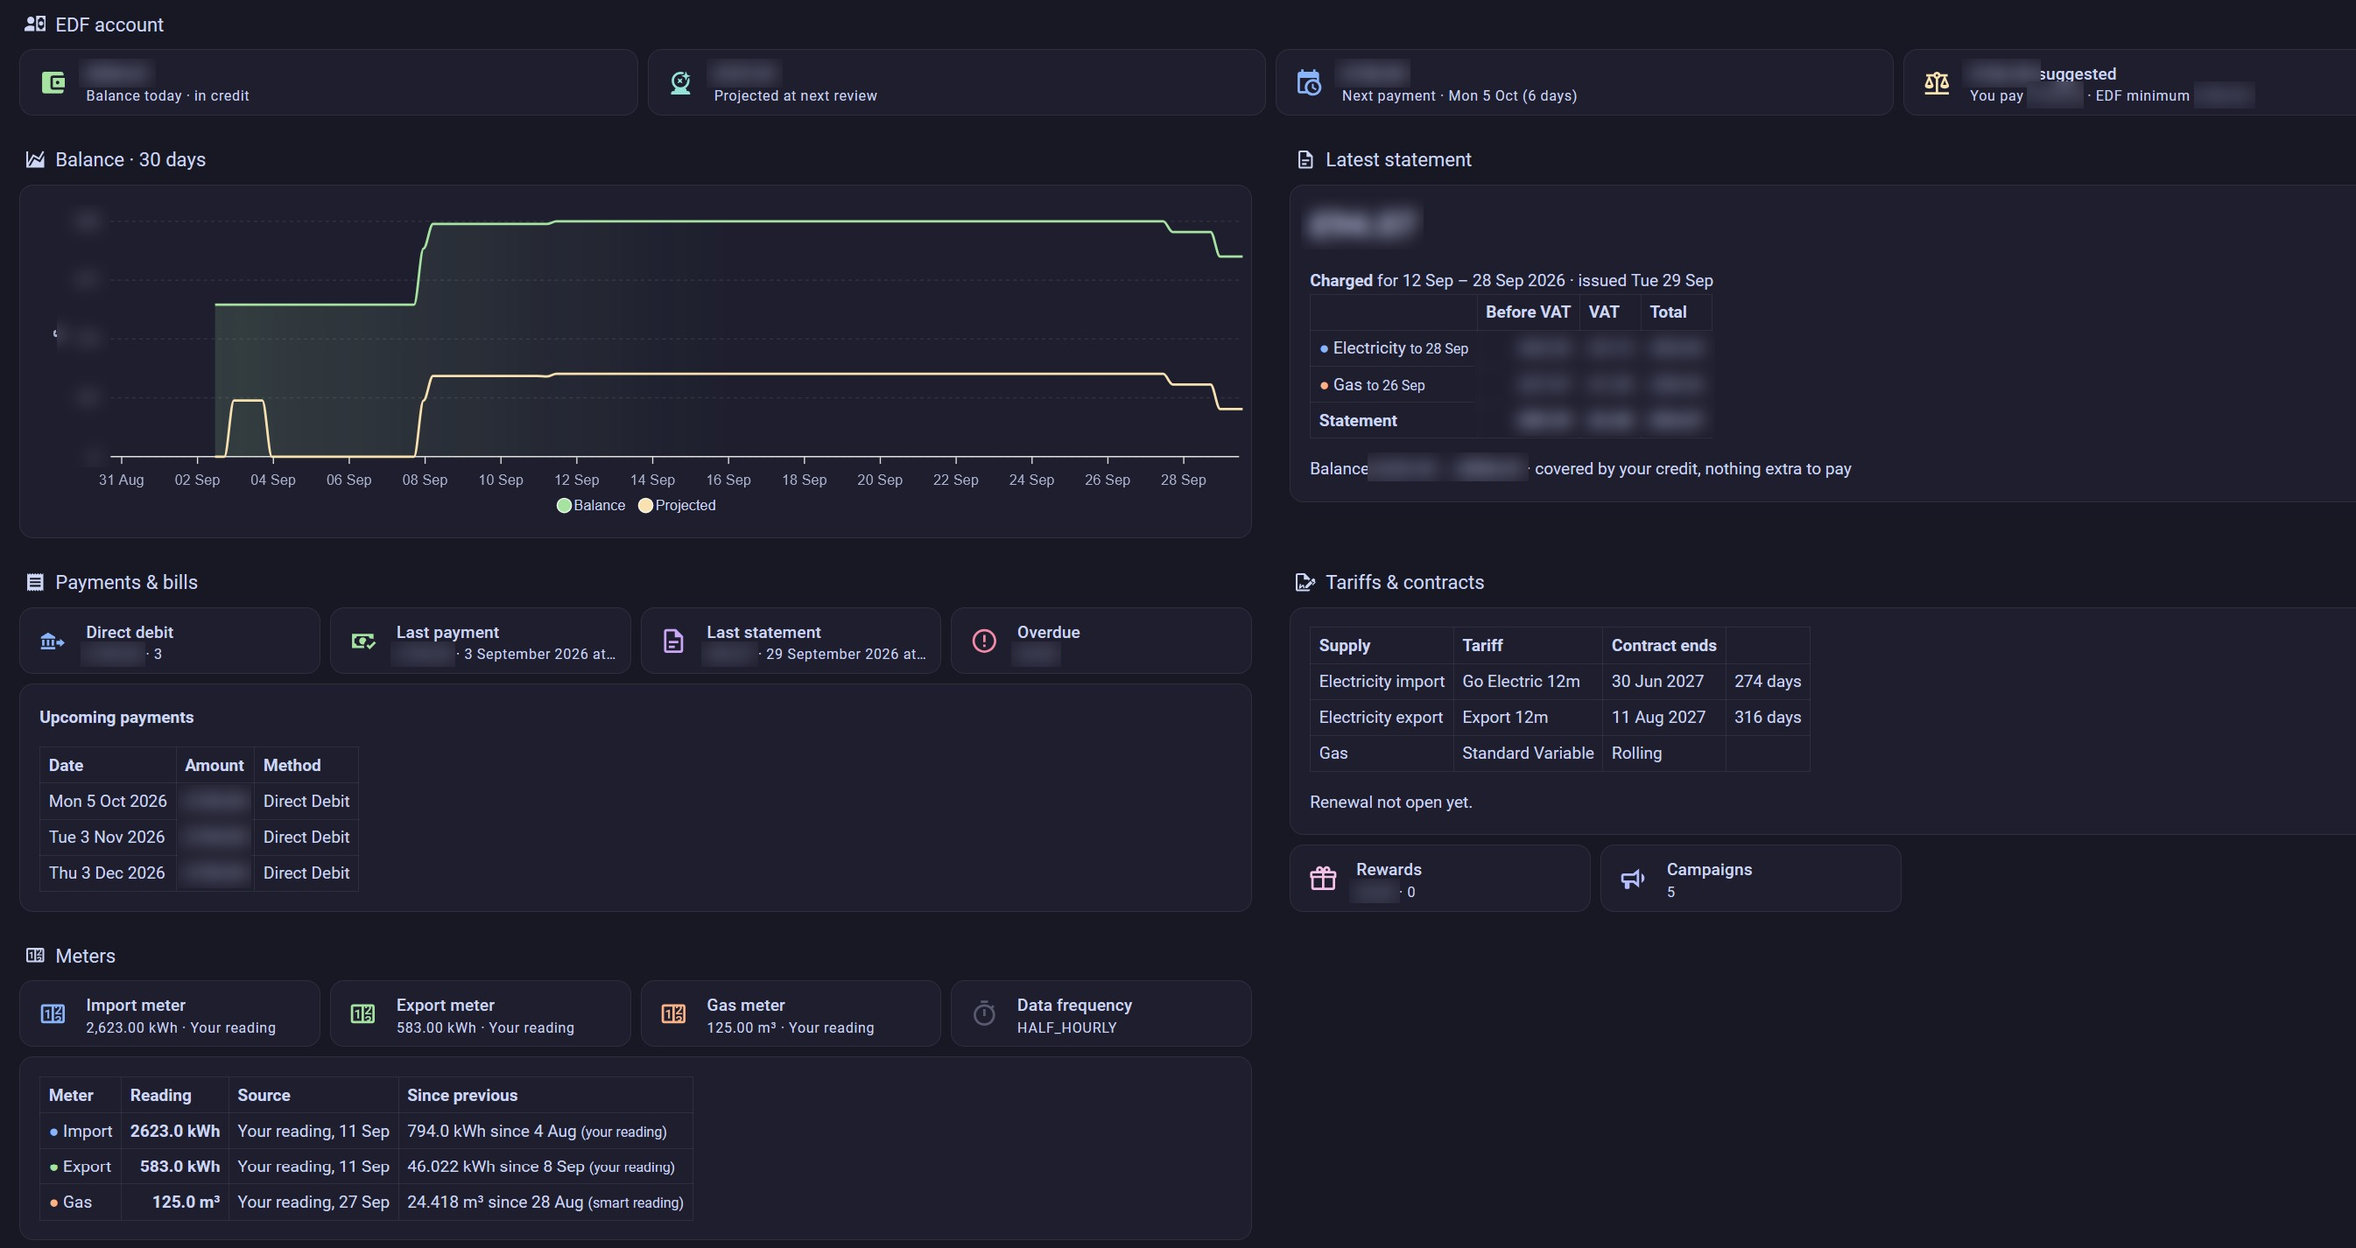
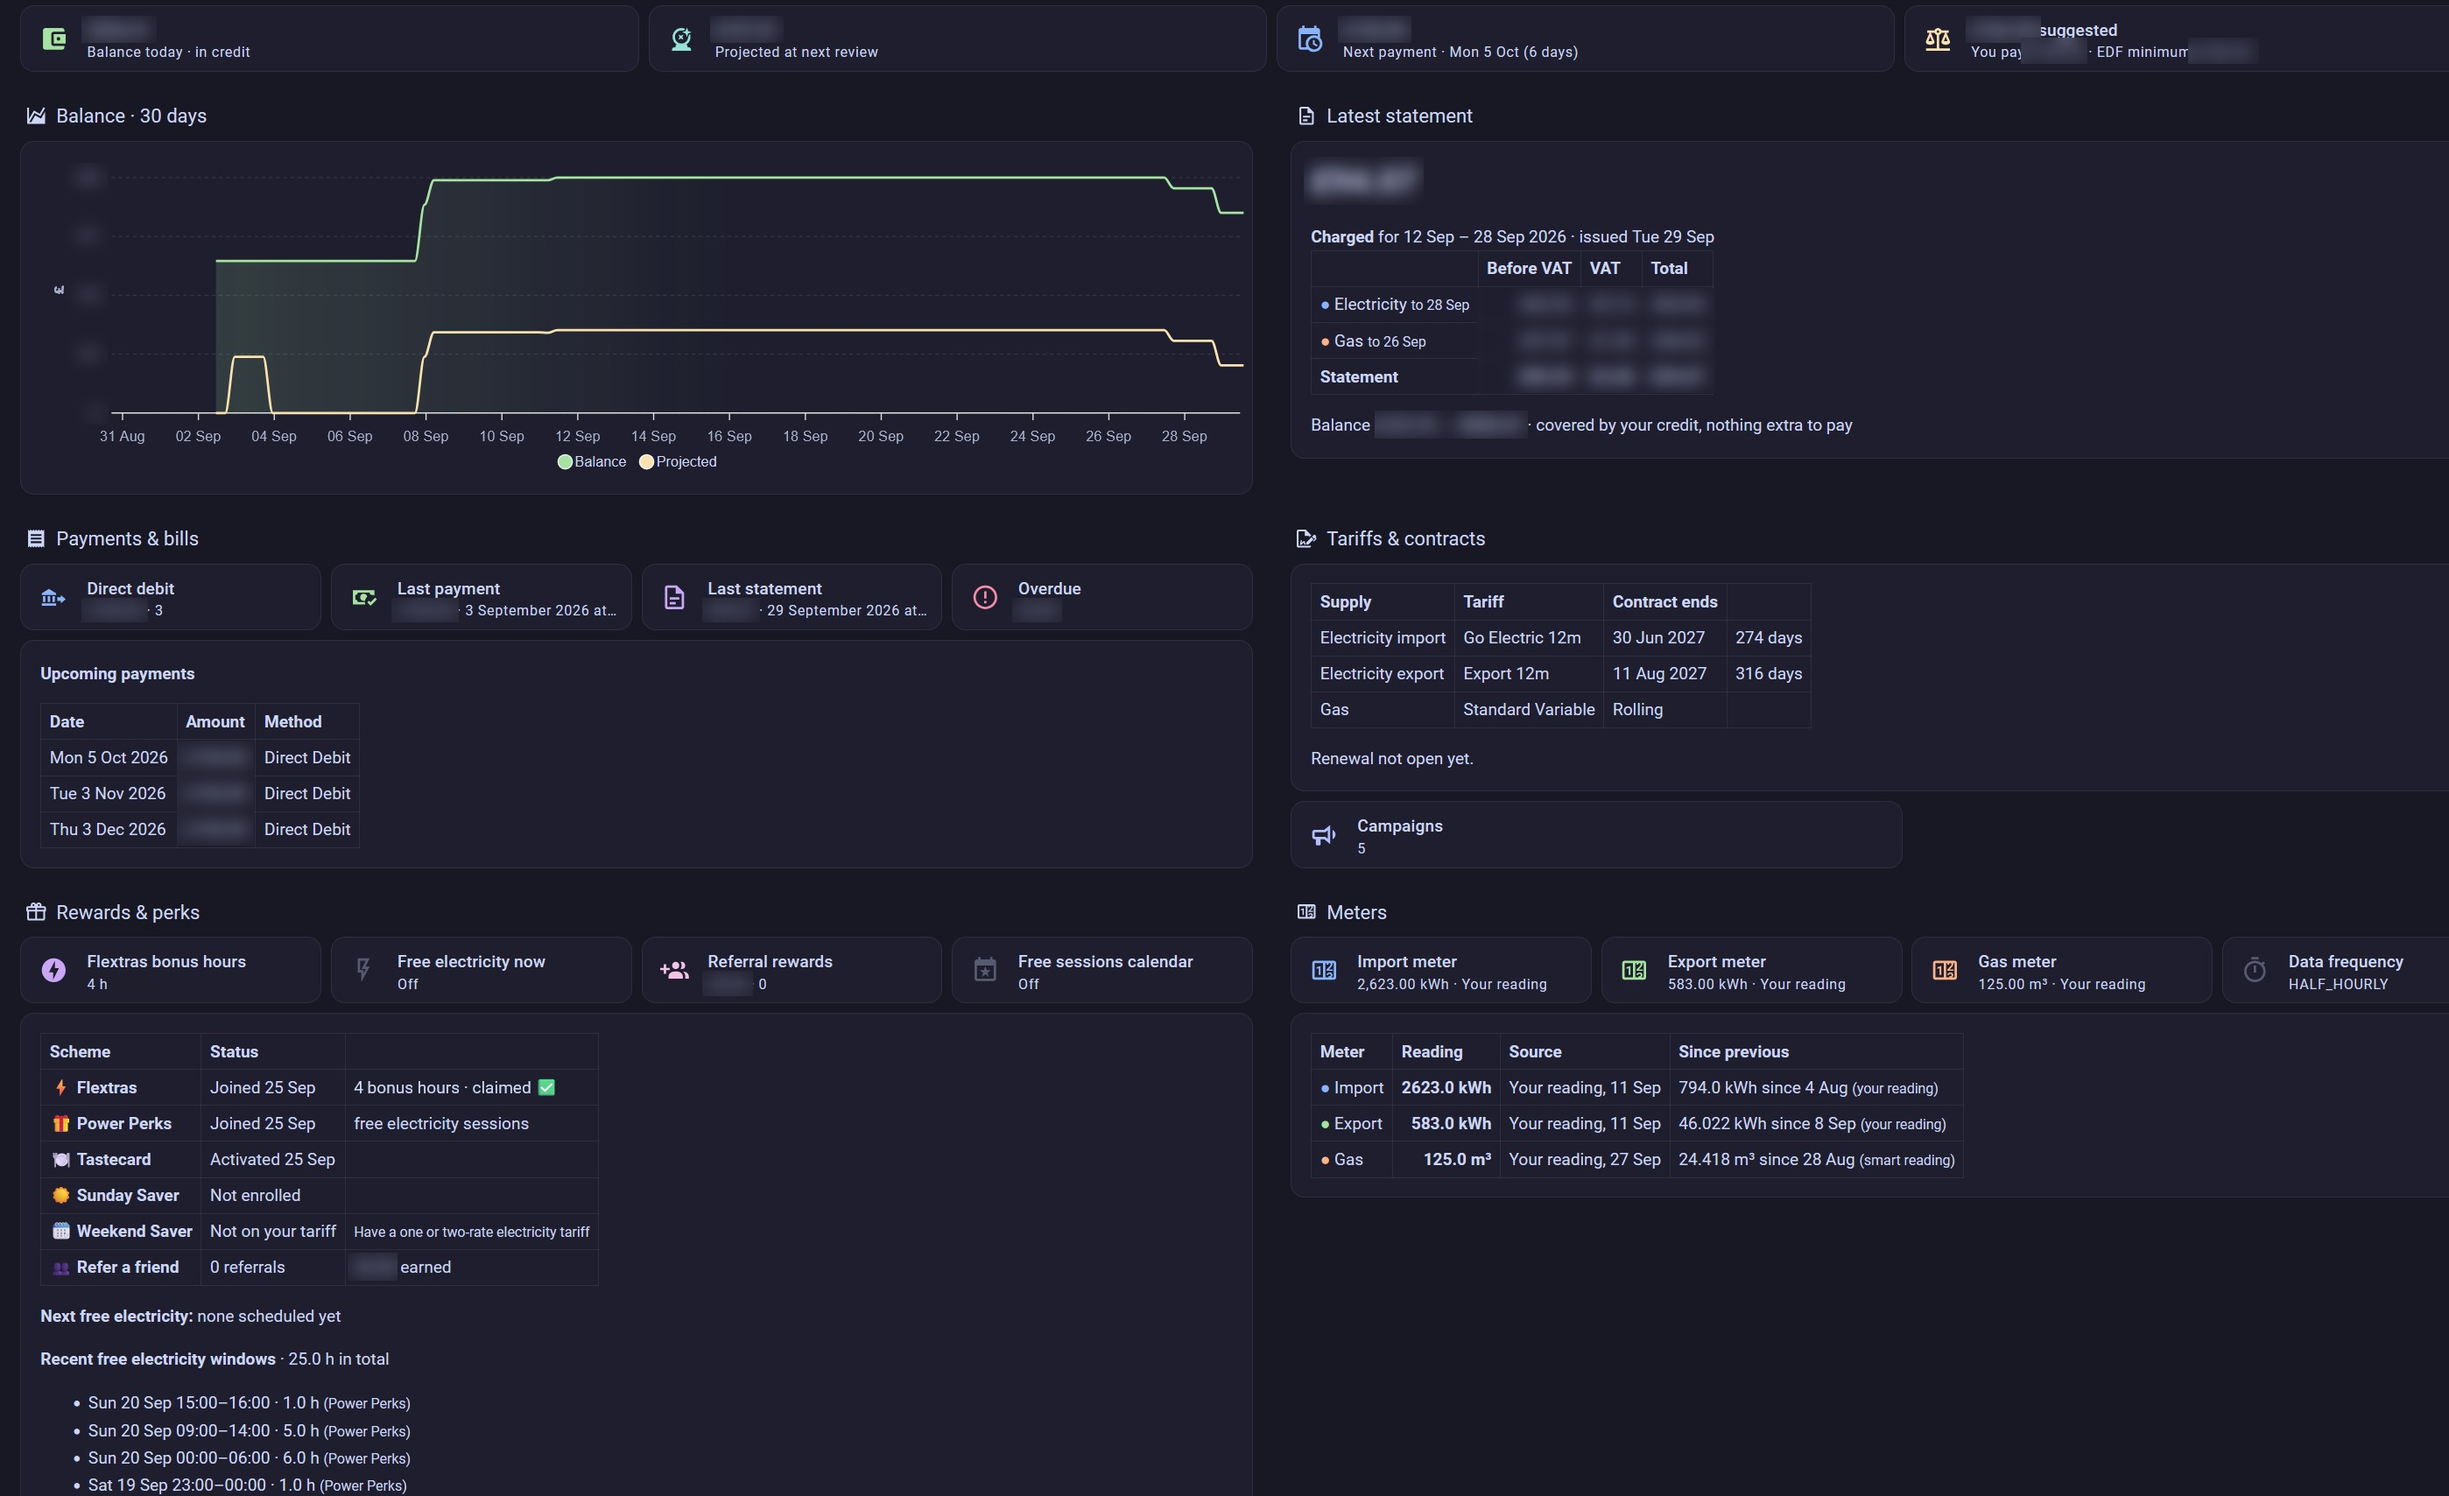
README: updated Account screenshot with rewards and perks

diff --git a/README.md b/README.md
@@ -16,9 +16,9 @@ A custom Home Assistant integration for retrieving and monitoring EDF UK smart m
 
 ![Tariff cards, today's and tomorrow's Go Electric unit rates with a "Now" marker, and the latest complete day's half-hourly import and export](docs/images/rates.png)
 
-![Account page: balance and direct debit cards, 30-day balance chart, the latest statement broken down by electricity and gas with VAT, payments and upcoming direct debits, tariffs and contract end dates, and meter readings showing where each came from (amounts blurred)](docs/images/account.png)
+![Account page: balance and direct debit cards, 30-day balance chart, the latest statement broken down by electricity and gas with VAT, payments and upcoming direct debits, tariffs and contract end dates, rewards and perks (Flextras, Power Perks, free electricity windows), and meter readings showing where each came from (amounts blurred)](docs/images/account.png)
 
-*Example dashboard built from this integration's sensors (money figures blurred). The cards are in [docs/DASHBOARD_EXAMPLES.md](docs/DASHBOARD_EXAMPLES.md).*
+*Example dashboard built from this integration's sensors (money figures blurred). The cards are in [docs/DASHBOARD_EXAMPLES.md](docs/DASHBOARD_EXAMPLES.md). The Flextras, Power Perks and free electricity details come from [stevekirtley's integration](https://github.com/stevekirtley/HomeAssistant-EDFEnergy) running alongside.*
 
 This is a personal fork of [Bobby5291/HomeAssistant-EDF-UK](https://github.com/Bobby5291/HomeAssistant-EDF-UK), with fixes for authentication, rates, meter readings, payments and several upstream issues. See [CHANGELOG.md](CHANGELOG.md) for the version history and [FORK_CHANGES.md](FORK_CHANGES.md) for the details behind each fix.
 
